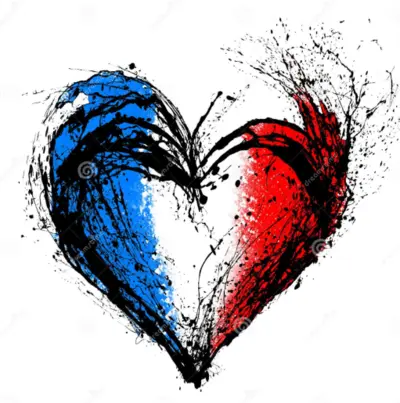
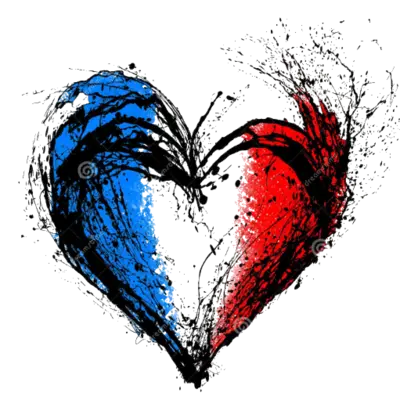
🎨 coração França: 15% opacity + fundo transparente

diff --git a/viagens/franca-2028.html b/viagens/franca-2028.html
@@ -38,10 +38,12 @@
     transform: translate(-50%, -50%);
     width: min(60vw, 500px);
     height: auto;
-    opacity: 0.06;
+    opacity: 0.15;
     z-index: 1;
     pointer-events: none;
-    filter: grayscale(0.3);
+  }
+  @media (max-width: 768px) {
+    .hero .hero-heart { opacity: 0.1; }
   }
   .hero h1 { font-family: 'DM Serif Display', serif; font-size: clamp(2.8em, 7vw, 5em); font-weight: 400; background: linear-gradient(135deg, #fff 20%, #3b82f6 40%, #ef4444 60%, #fff 80%); background-size: 300% 300%; -webkit-background-clip: text; -webkit-text-fill-color: transparent; background-clip: text; animation: shift 8s ease infinite; margin-bottom: 8px; position: relative; z-index: 2; filter: drop-shadow(0 4px 30px rgba(0,0,0,0.5)); }
   @keyframes shift { 0%{background-position:0% 50%} 50%{background-position:100% 50%} 100%{background-position:0% 50%} }